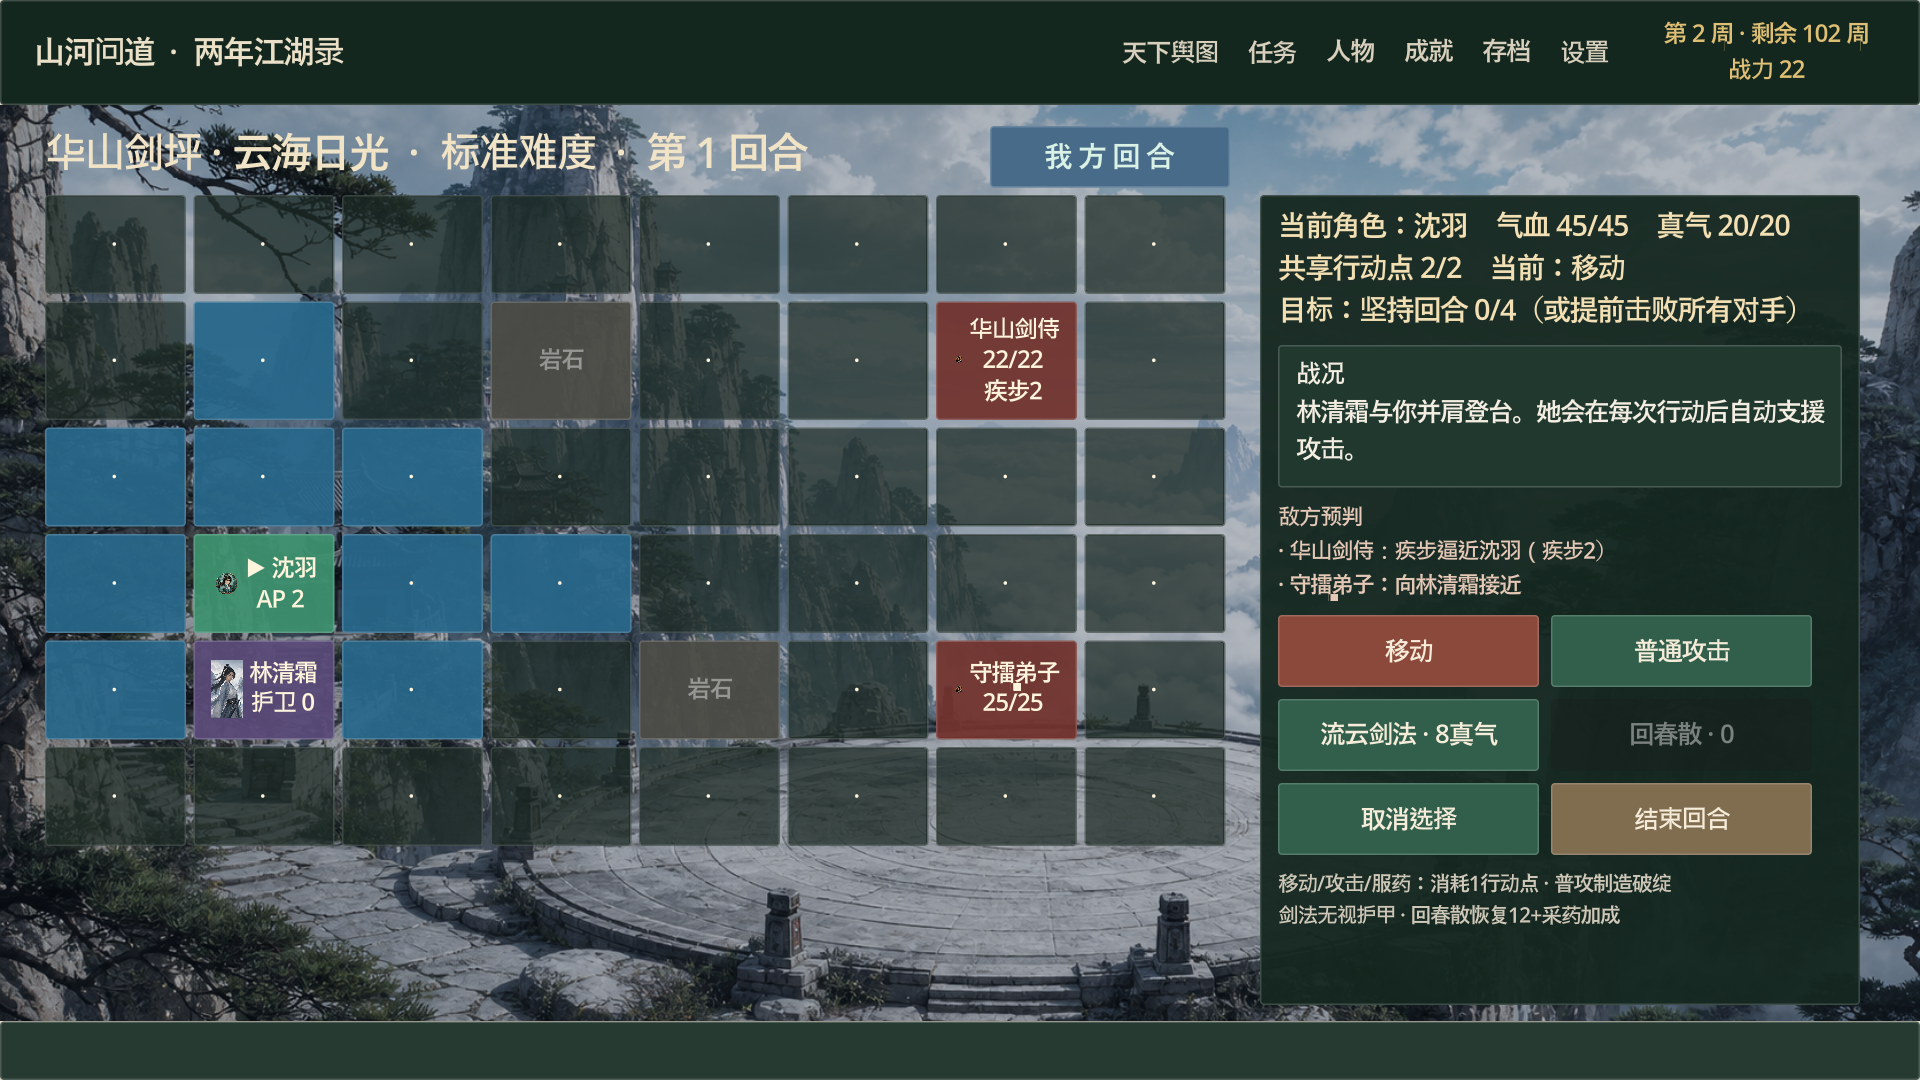
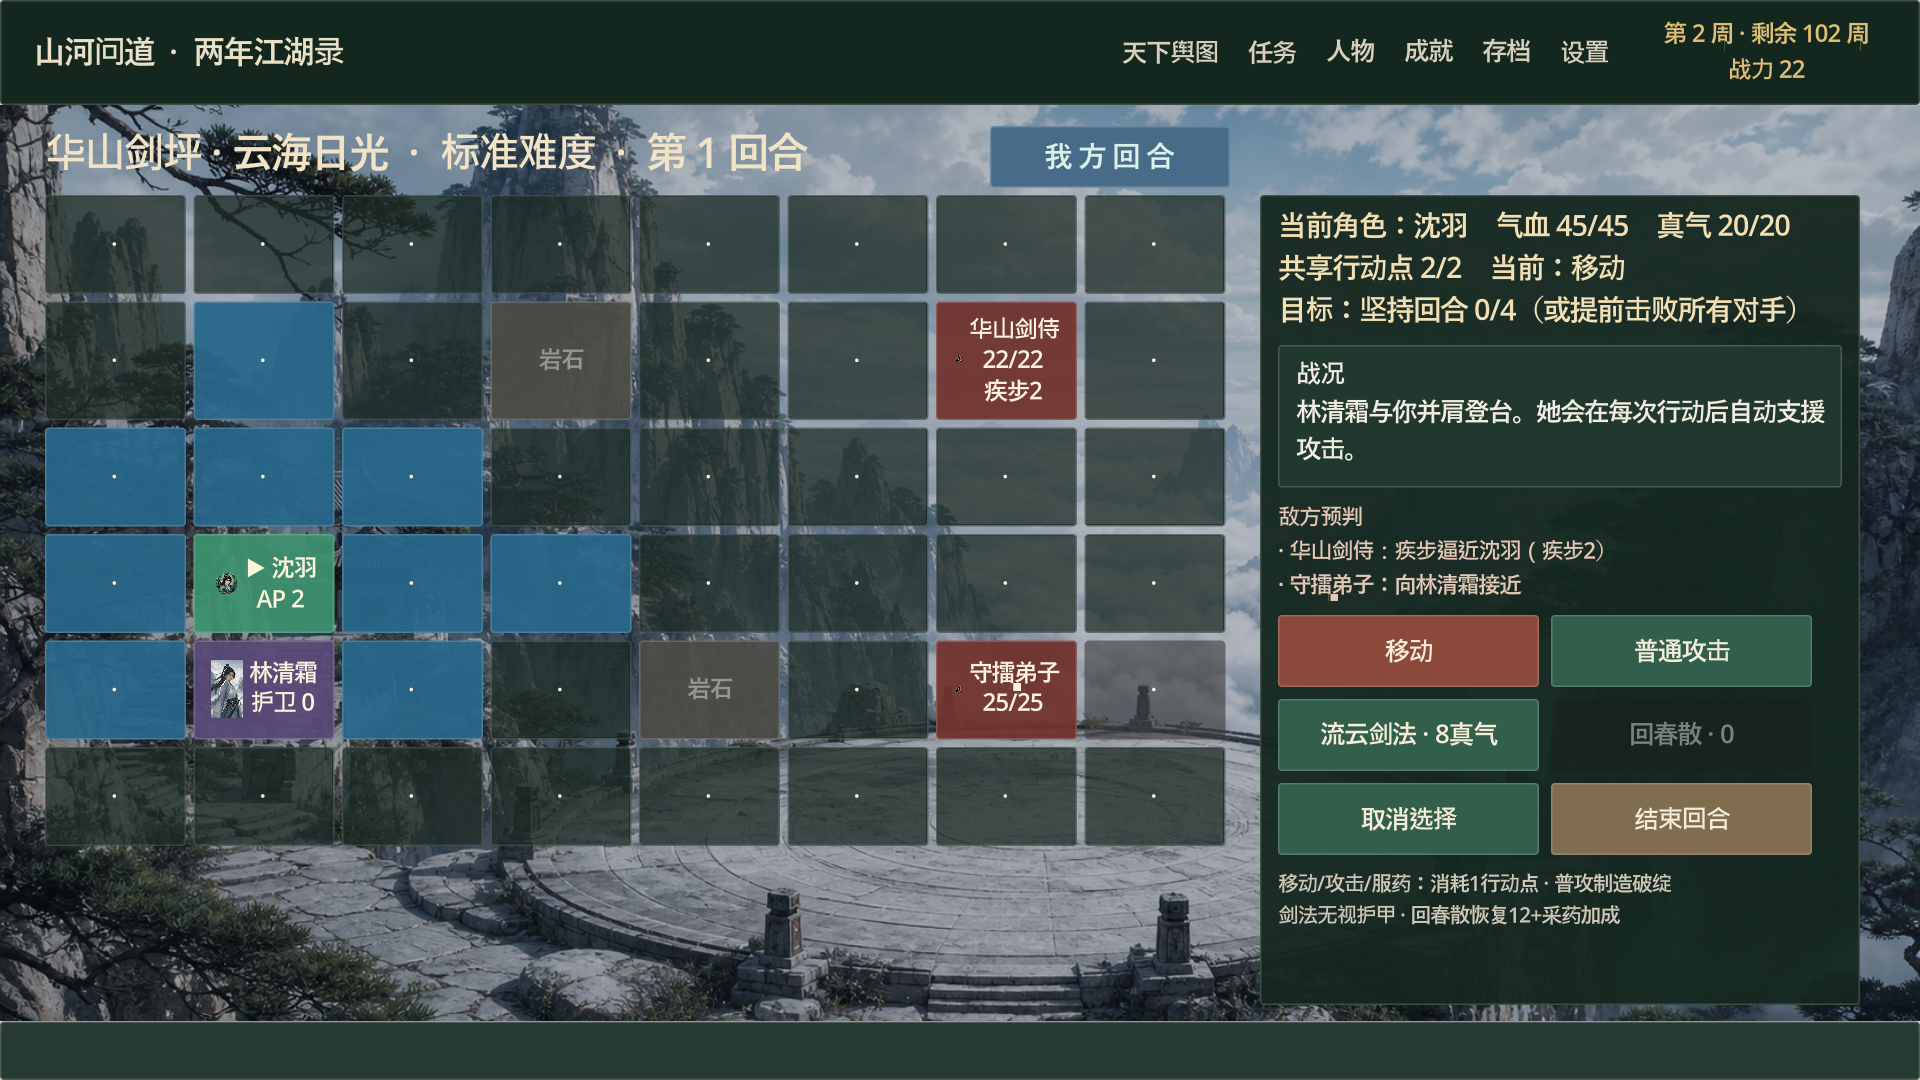
Add persistent herbarium discoveries (0.36.0)

Changed region(s): [[0.5625, 0.5806, 0.6562, 0.7028]]

diff --git a/godot/BUILDING.md b/godot/BUILDING.md
@@ -28,6 +28,7 @@ $tests = @(
     "test_onboarding_spec.gd",
     "test_growth_rules.gd",
 	"test_crafting_rules.gd",
+	"test_herbarium_rules.gd",
     "test_training_minigame_rules.gd",
 	"test_training_event_rules.gd",
     "test_reward_rules.gd",
@@ -86,7 +87,7 @@ Capture a live martial-skill impact frame after changing combat presentation:
 & $godot --path $project --script res://tests/test_controls_view.gd
 ```
 
-The training preview covers the advanced three-technique sword sequence, the short-echo mining window, and the final score/reward card with an encounter panel. Each discipline introduces an advanced variant after round one: three-step sword forms, delayed blade counters, paired herb-root deductions, or short mining echoes. Training streaks begin at 85 points, grant capped +5/+10 combo bonuses, and reset on a miss; the packaged training verifier checks a three-round 315-point streak across basic and advanced rounds. High grades also improve the chance of one of eight specialty encounters; their material, currency, cultivation, consumable, or health effects are committed in the same save-backed transaction as the normal reward.
+The training preview covers the advanced three-technique sword sequence, the short-echo mining window, and the final herbalism score/reward card with both field-guide discovery and encounter panels. Each discipline introduces an advanced variant after round one: three-step sword forms, delayed blade counters, paired herb-root deductions, or short mining echoes. Training streaks begin at 85 points, grant capped +5/+10 combo bonuses, and reset on a miss; the packaged training verifier checks a three-round 315-point streak across basic and advanced rounds. High grades also improve the chance of one of eight specialty encounters; their material, currency, cultivation, consumable, or health effects are committed in the same save-backed transaction as the normal reward. Herbalism grades unlock increasingly broad specimen pools, prioritize undiscovered plants, persist a four-entry herbarium, and grant a one-time cultivation bonus for each first discovery.
 
 Godot writes `combat_feedback_preview.png` to the project user-data folder after exercising the real skill-impact animation path.
 

diff --git a/godot/STORE_PAGE_DRAFT.md b/godot/STORE_PAGE_DRAFT.md
@@ -108,4 +108,4 @@ Capsules may contain only approved game artwork, the readable game name/logo, an
 
 Only upload screenshots captured from the actual build. Do not substitute concept art or generated promotional scenes for gameplay screenshots.
 
-The reviewed 0.35.0 candidate set is stored in `steamworks/store-assets/screenshots-candidates/`. Regenerate it after material gameplay or UI changes and visually review all eight images before uploading them to Steamworks.
+The reviewed 0.36.0 candidate set is stored in `steamworks/store-assets/screenshots-candidates/`. Regenerate it after material gameplay or UI changes and visually review all eight images before uploading them to Steamworks.

diff --git a/steamworks/store-assets/screenshots-candidates/README.md b/steamworks/store-assets/screenshots-candidates/README.md
@@ -1,6 +1,6 @@
 # Steam screenshot candidates
 
-These eight 1920×1080 PNGs were captured from the exported Windows Release build of 山河问道 0.35.0. They show the real game UI and deterministic gameplay states; no concept art or generated promotional scene is substituted for gameplay.
+These eight 1920×1080 PNGs were captured from the exported Windows Release build of 山河问道 0.36.0. They show the real game UI and deterministic gameplay states; no concept art or generated promotional scene is substituted for gameplay.
 
 Regenerate them from the repository root after exporting the full build:
 